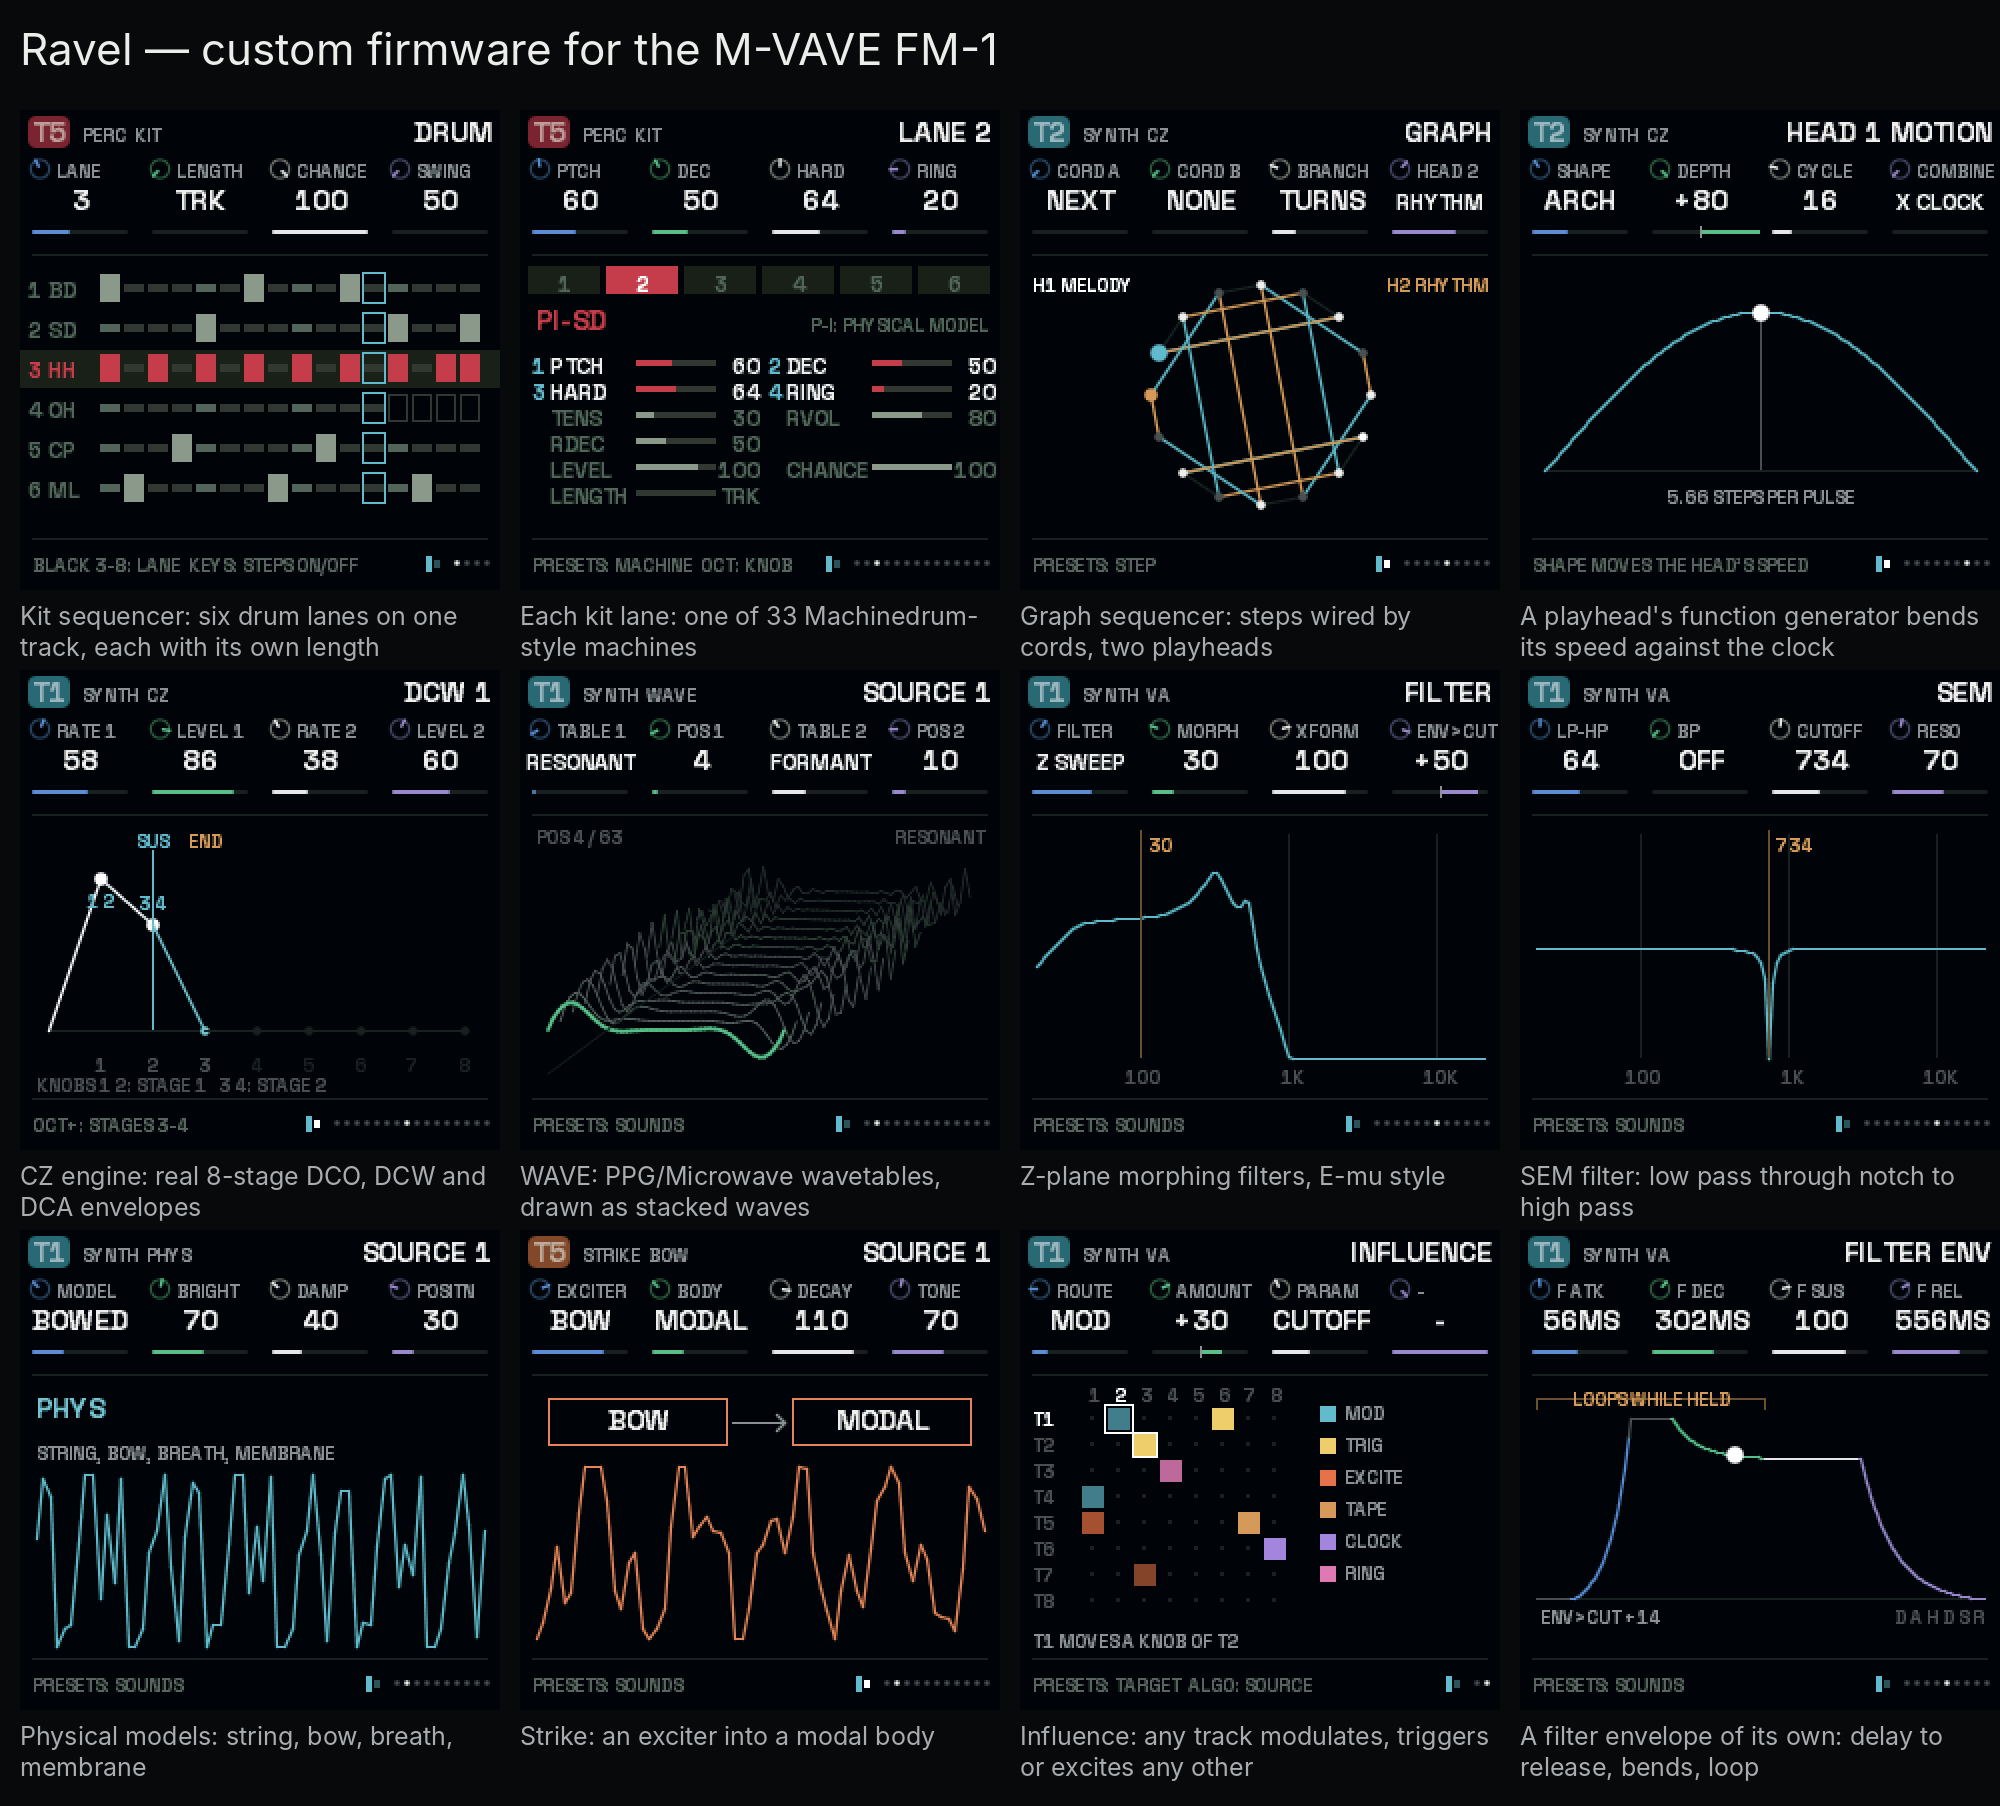
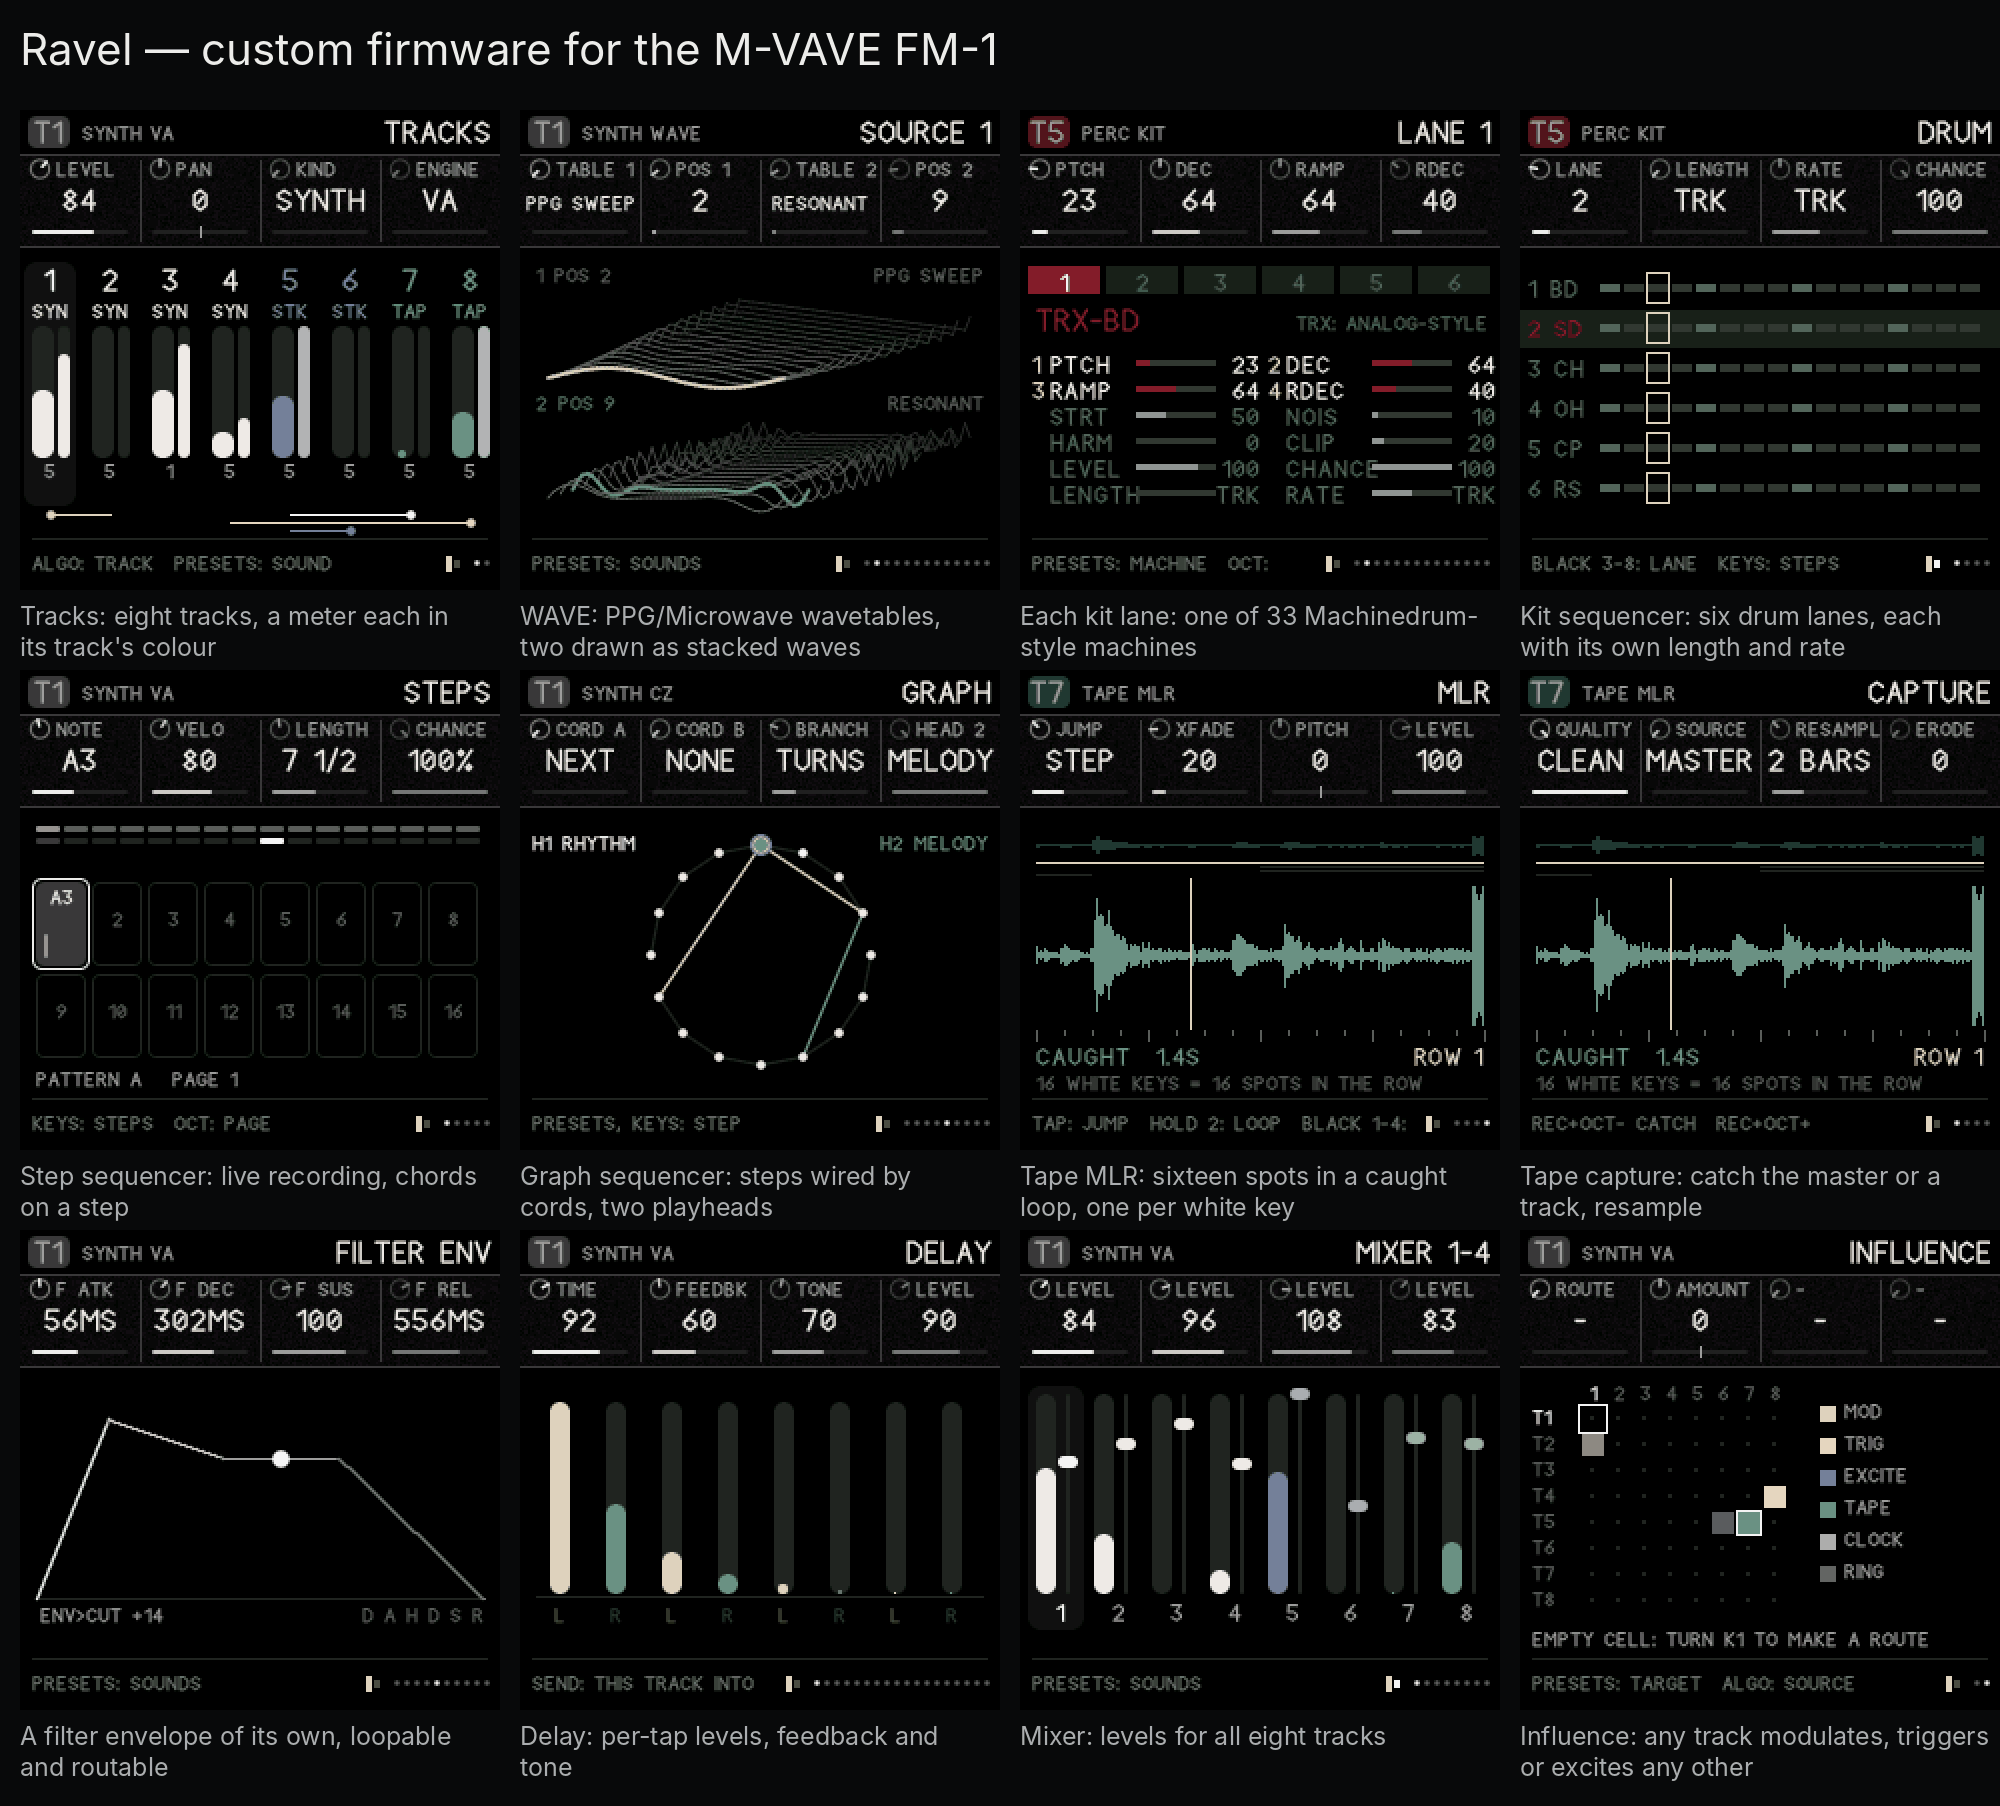
README: the new reverb modes, recording and saving in the overview; a new showcase
The showcase at the top is redrawn from the current firmware: tracks,
WAVE, a perc lane, the kit sequencer, steps, graph, tape MLR and
capture, filter envelope, delay, mixer and influence. The overview names
BLACKHOLE and 12-BIT, chord recording, kit lane rates, named projects
and the .ravel transfer; the quick reference gains chords, graph pages
past 16 and the two reverbs.

Claude-Session: https://claude.ai/code/session_01BwzGhPZLDZkrxZk5dy3Yyf

Changed region(s): [[0.0, 0.062, 1.0, 0.9922], [0.248, 0.9302, 0.434, 0.9922], [0.713, 0.9302, 0.744, 0.9612]]

diff --git a/README.md b/README.md
@@ -16,7 +16,7 @@ Ravel is a custom firmware for the M-VAVE FM-1 that turns the FM-1 into a pocket
 
 **Status: playable in the emulator; the FM-1 firmware builds, but has not been run on an FM-1 yet.** The whole instrument runs in the browser emulator and the desktop simulator, from the same C sources the firmware is built from. The FM-1 firmware is bare metal (no vendor SDK) on the open hardware layer of the Felucca family of community firmwares, and installs from a web installer over USB. Until it has been tried on hardware, treat it as experimental.
 
-<p align="center"><img src="docs/showcase/ravel-showcase.png" alt="Twelve Ravel screens: the kit sequencer, a perc machine lane, the graph sequencer and its function generator, CZ envelopes, the WAVE wavetables, Z-plane and SEM filters, a physical model, a strike voice, the influence grid and the filter envelope" width="900"></p>
+<p align="center"><img src="docs/showcase/ravel-showcase.png" alt="Twelve Ravel screens: the tracks page, the WAVE wavetables, a perc machine lane, the kit sequencer, the step and graph sequencers, the tape MLR and capture pages, the filter envelope, the delay, the mixer and the influence grid" width="900"></p>
 <p align="center"><sub>More screens in <a href="docs/showcase/">docs/showcase</a>.</sub></p>
 
 ## What it is
@@ -28,10 +28,10 @@ Ravel is a custom firmware for the M-VAVE FM-1 that turns the FM-1 into a pocket
 - **Capture tape:** records the master, one track, the buses or the audio input. **Catch** keeps what is on it, **resample** records a bar (or 2 or 4) onto row 1 on the downbeat, erosion and "dirty" half-rate µ-law for more time.
 - **Influence:** an 8 × 8 grid where any track can modulate, trigger, excite, ring, jump the tape of, or clock any other.
 - **Articulation:** onset, continuant and termination stages with curve, overshoot, a loop, a tail and **Give** (a spring that lets the level lag and bounce), two destinations, its own FILTER ENV, and a library of 32 chainable step envelopes that steps start to move any parameter across the steps.
-- **Sequencer:** each track runs in **STEPS** or **GRAPH** mode. Steps: length, rate and direction, parameter locks, microtiming, ratchets with curves, conditions, chance. Graph (from Silt): cords set where a playhead goes next, two playheads walk the same graph, each playing notes, only the gate, or only the pitch (so rhythm and melody can take different paths), head 2 can play another track, and each head has a function generator (rise, fall, arch, decay, swell, or an LFO or dust) that moves its speed, times or plus the clock. Plus density arcs, a per-track note interval, scale quantizing, René-style clocking from LFOs or dust, and a two-oscillator master clock.
+- **Sequencer:** each track runs in **STEPS** or **GRAPH** mode. Steps: length, rate and direction, parameter locks, microtiming, ratchets with curves, conditions, chance. Graph (from Silt): cords set where a playhead goes next, two playheads walk the same graph, each playing notes, only the gate, or only the pitch (so rhythm and melody can take different paths), head 2 can play another track, and each head has a function generator (rise, fall, arch, decay, swell, or an LFO or dust) that moves its speed, times or plus the clock. Plus density arcs, a per-track note interval, scale quantizing, René-style clocking from LFOs or dust, and a two-oscillator master clock. Recording keeps what you play live, chords included (up to four notes on a step), and each kit lane can run at its own rate.
 - **Modulation:** two LFOs, dust, an 8-slot matrix and 4 macros with 8 destinations each (curves and windows).
-- **Buses:** a stereo delay (spread, wobble, freeze) that can become a Beads-style grain cloud, a space reverb (motion, diffusion, low cut; ROOM or a long Clouds-style plate), a feedback bus (filter, comb, smear, shift, fold or crush, returning to the master or into a track), a filter pair (low, band or high pass each; series, parallel or feedback, with two LFOs), an 8-band vocoder (its body is dust, drops, noise, the tape or a track; attack, release, shift, width), BANDS (eight resonant bands, like a fixed filter bank), and master drive with microcuts and punch-in effects on the keys. Each bus page shows the current track's send into it.
-- **Song:** patterns A and B per track, 16 scenes, a 32-row arrangement, mute and solo, tap tempo, 8 project slots.
+- **Buses:** a stereo delay (spread, wobble, freeze) that can become a Beads-style grain cloud, a space reverb (motion, diffusion, low cut; ROOM, a long Clouds-style plate, BLACKHOLE, a vast dark space whose tail can bloom forever, or 12-BIT, a gritty late-80s rack plate), a feedback bus (filter, comb, smear, shift, fold or crush, returning to the master or into a track), a filter pair (low, band or high pass each; series, parallel or feedback, with two LFOs), an 8-band vocoder (its body is dust, drops, noise, the tape or a track; attack, release, shift, width), BANDS (eight resonant bands, like a fixed filter bank), and master drive with microcuts and punch-in effects on the keys. Each bus page shows the current track's send into it.
+- **Song:** patterns A and B per track, 16 scenes, a 32-row arrangement, mute and solo, tap tempo, 8 named project slots, and a sound bank of your own; projects and sounds move between the emulator and an FM-1 as a .ravel file.
 
 **New here?** Open the emulator ([Opening it](#1-opening-it)), load a demo, press Play, then read [The five moves](#3-the-five-moves-how-every-page-works). Everything else is reference.
 
@@ -1275,6 +1275,10 @@ Turning ALGORITHM while armed moves recording to the new track.
 | One row of the matrix moving another | LFO › MATRIX: TRACK = MATRIX, PARAM = ROW n |
 | A kit lane faster or slower | SEQ › DRUM, KNOB 3 RATE (or the lane's LANE page) |
 | Choose a kit lane's machine | EDIT › LANE n (black keys 3–8), PRESETS |
+| Record a chord onto a step | Tap REC, PLAY, press the keys together |
+| Graph steps past 16 | GRAPH page, OCT+ / OCT− |
+| A huge, endless reverb | FX › SPACE 2: MODE BLACKHOLE; then SPACE: GRAVITY near the top |
+| A lo-fi 12-bit reverb | FX › SPACE 2: MODE 12-BIT, DIFFUSE becomes CRUNCH (fewer bits) |
 
 ## 19. Questions people ask
 
